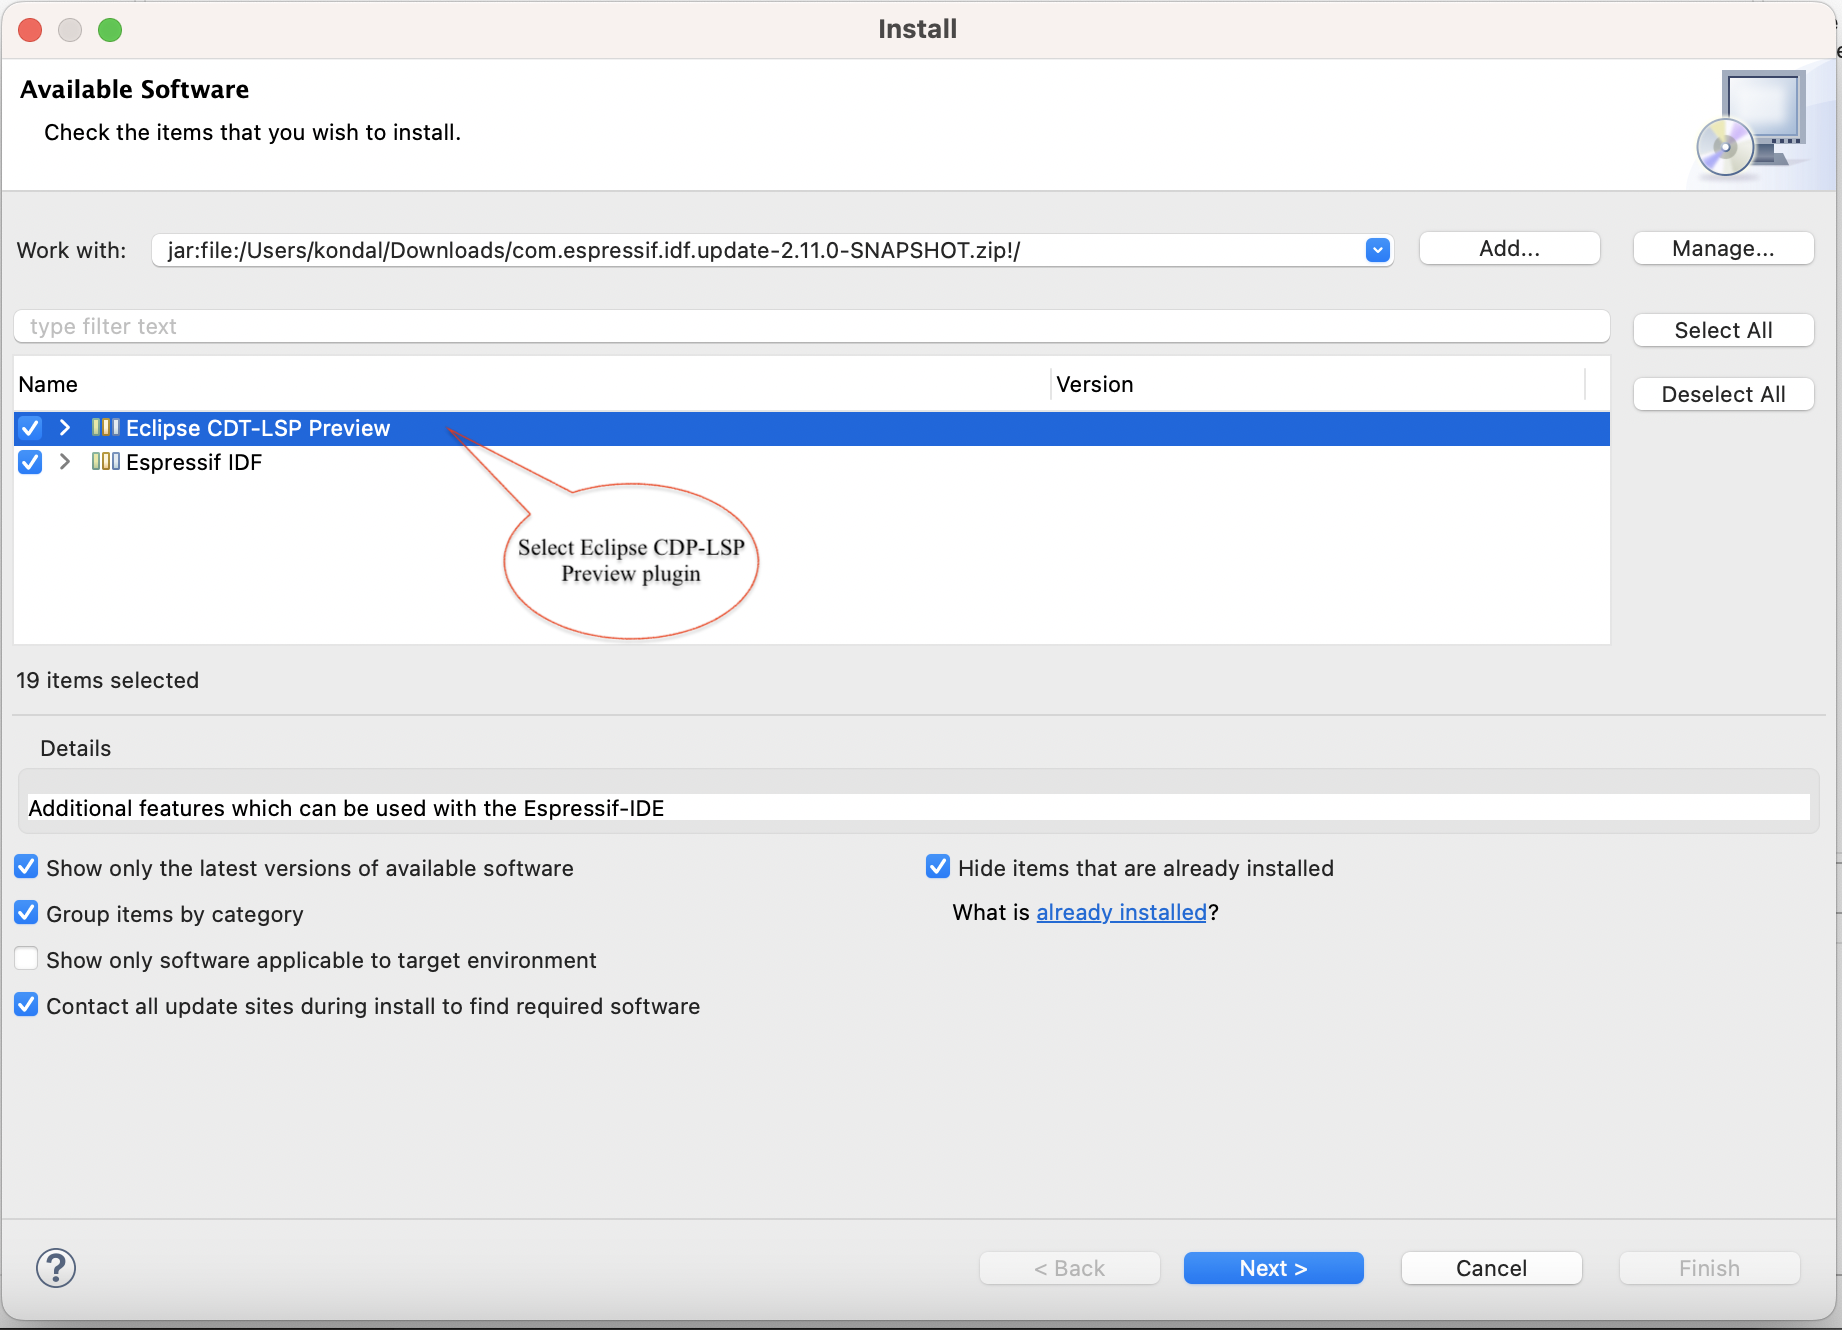
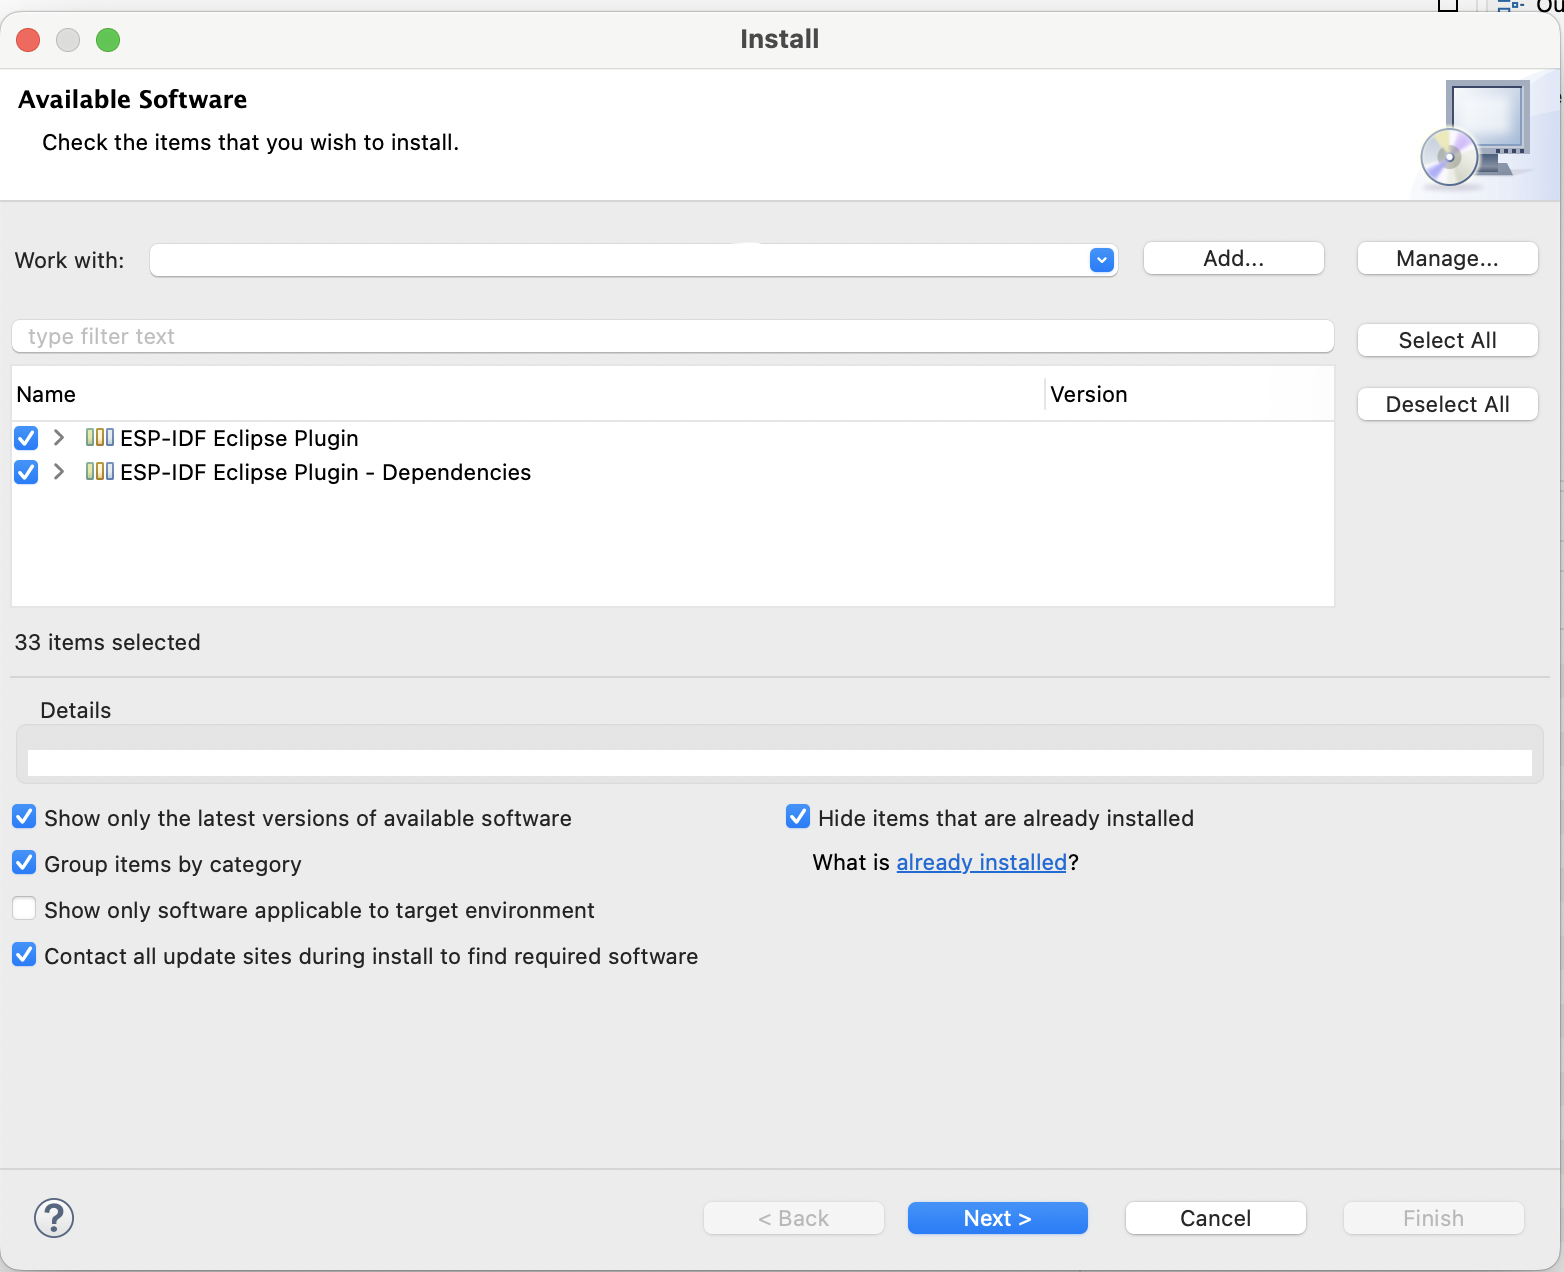
docs: update clangd documentation

diff --git a/docs/clangd_cdt_support.md b/docs/clangd_cdt_support.md
@@ -1,12 +1,21 @@
-# Clangd Configuration in Espressif-IDE
+# Espressif-IDE LSP Support for C/C++ Editor.
 
-Follow the below instructions to configure Clangd in Espressif-IDE.
+The Espressif-IDE 3.0.0 (and higher) now includes the [Eclipse CDT-LSP](https://github.com/eclipse-cdt/cdt-lsp/), enabling support for the latest C/C++ standards and providing an LSP-based C/C++ Editor. This editor, powered by the [LLVM](https://clangd.llvm.org/) clangd C/C++ language server, offers advanced functionality for ESP-IDF developers.
+
+In line with this enhancement, we've discontinued support for the standard CDT Editor/Indexer, as it only offers support for up to C++14. This change is significant, especially considering that ESP-IDF now utilizes C++20 (with GCC 11.2) in v5.0.x, transitioned to C++23 (with GCC 12.1) in v5.1 and C++23 with GCC 13.1 with v5.2.
+
+The LSP powered C/C++ editor greatly benefits ESP-IDF developers by aligning with the latest language standards and compiler versions, enhancing productivity, and improving code quality.
 
 ## Prerequisites
-1. Install the latest version of [Espressif-IDE](https://github.com/espressif/idf-eclipse-plugin/blob/master/docs/Espressif-IDE.md#downloads) 
-2. Install the latest version of Eclipse CDT-LSP and it's dependencies using [Update Site](https://dl.espressif.com/dl/idf-eclipse-plugin/updates/latest/)
+1. Clangd is supported from [Espressif-IDE](https://github.com/espressif/idf-eclipse-plugin/blob/master/docs/Espressif-IDE.md#downloads) 3.0.0 and higher. 
+2. If you are updating via the update site, you need to select the ESP-IDF Eclipse Plugin and its dependencies, as shown below:
 
  	![](images/clangd/cdtlsp_updatesite.png)
+
+## How to use Clangd in Espressif-IDE
+Espressif-IDE 3.0.0 higher offers the Clangd support. This includes default C/C++ LSP editor features and many other [features](https://github.com/eclipse-cdt/cdt-lsp/).
+
+
 
 ## Clangd Configuration
 To enable clangd in the C/C++ editor, follow the below steps.
